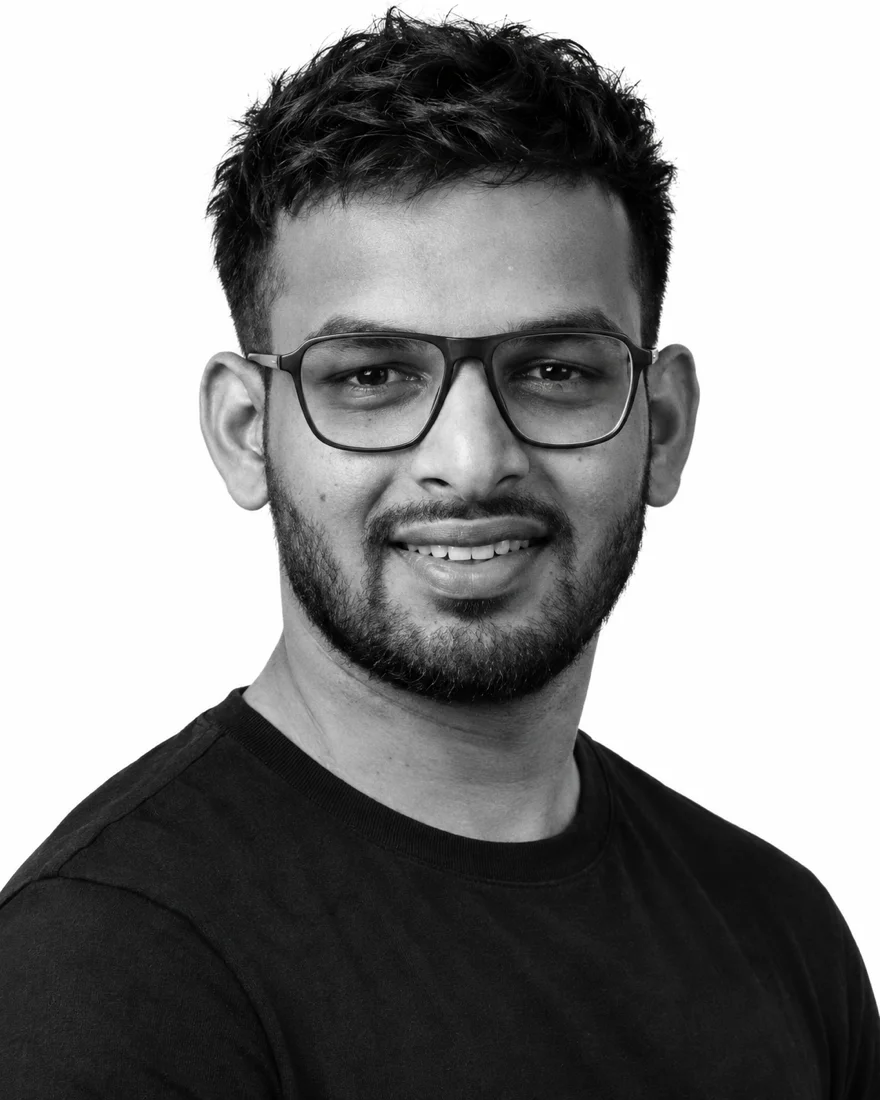
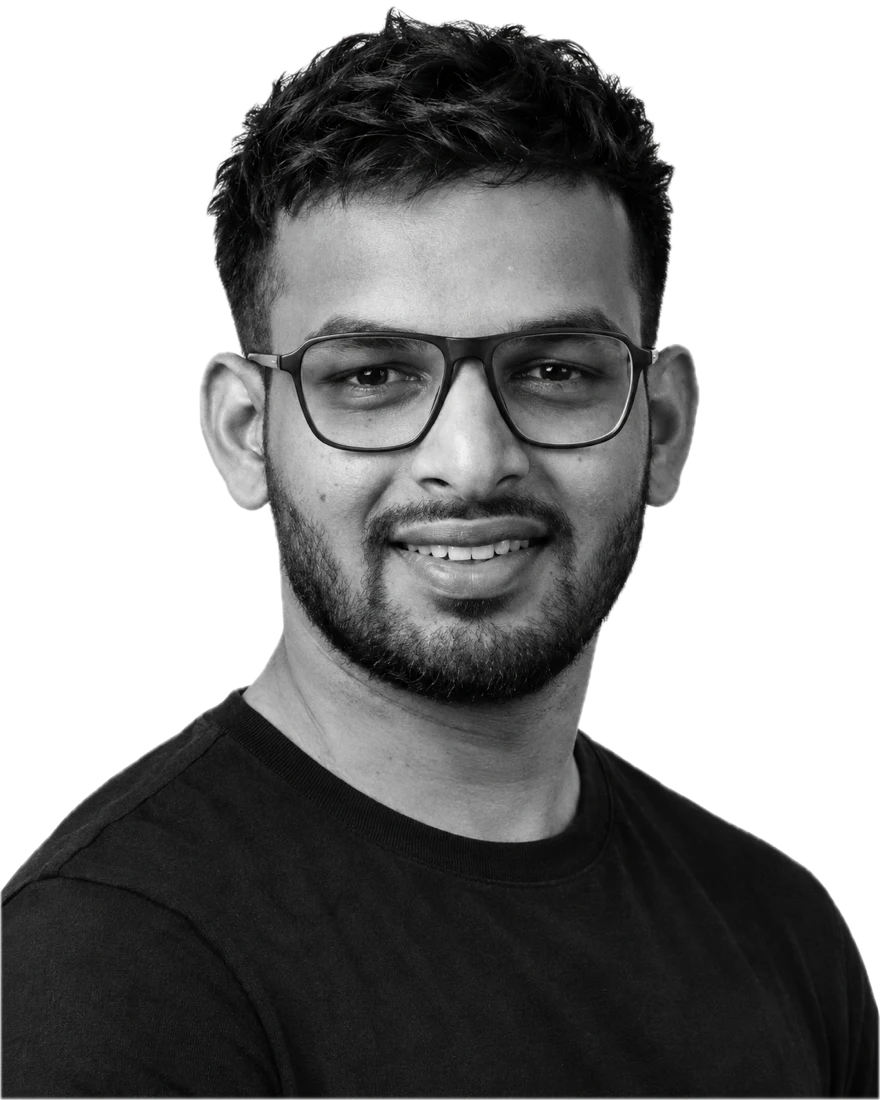
Replace portrait thumbnail image with a WebP format for improved performance

diff --git a/index.html b/index.html
@@ -351,7 +351,7 @@
                 </div>
 
                 <a class="talk-card" href="#contact">
-                    <img src="resource/hero/portrait-thumb.jpg" alt="" width="160" height="160">
+                    <img src="resource/hero/portrait-thumb.webp" alt="" width="160" height="160">
                     <span class="talk-text"><small>Let's Talk</small><strong>Abhijeet Gorhe</strong><span>Video Editor &amp; Motion Designer</span></span>
                     <span class="talk-go" aria-hidden="true">&#8599;</span>
                     
